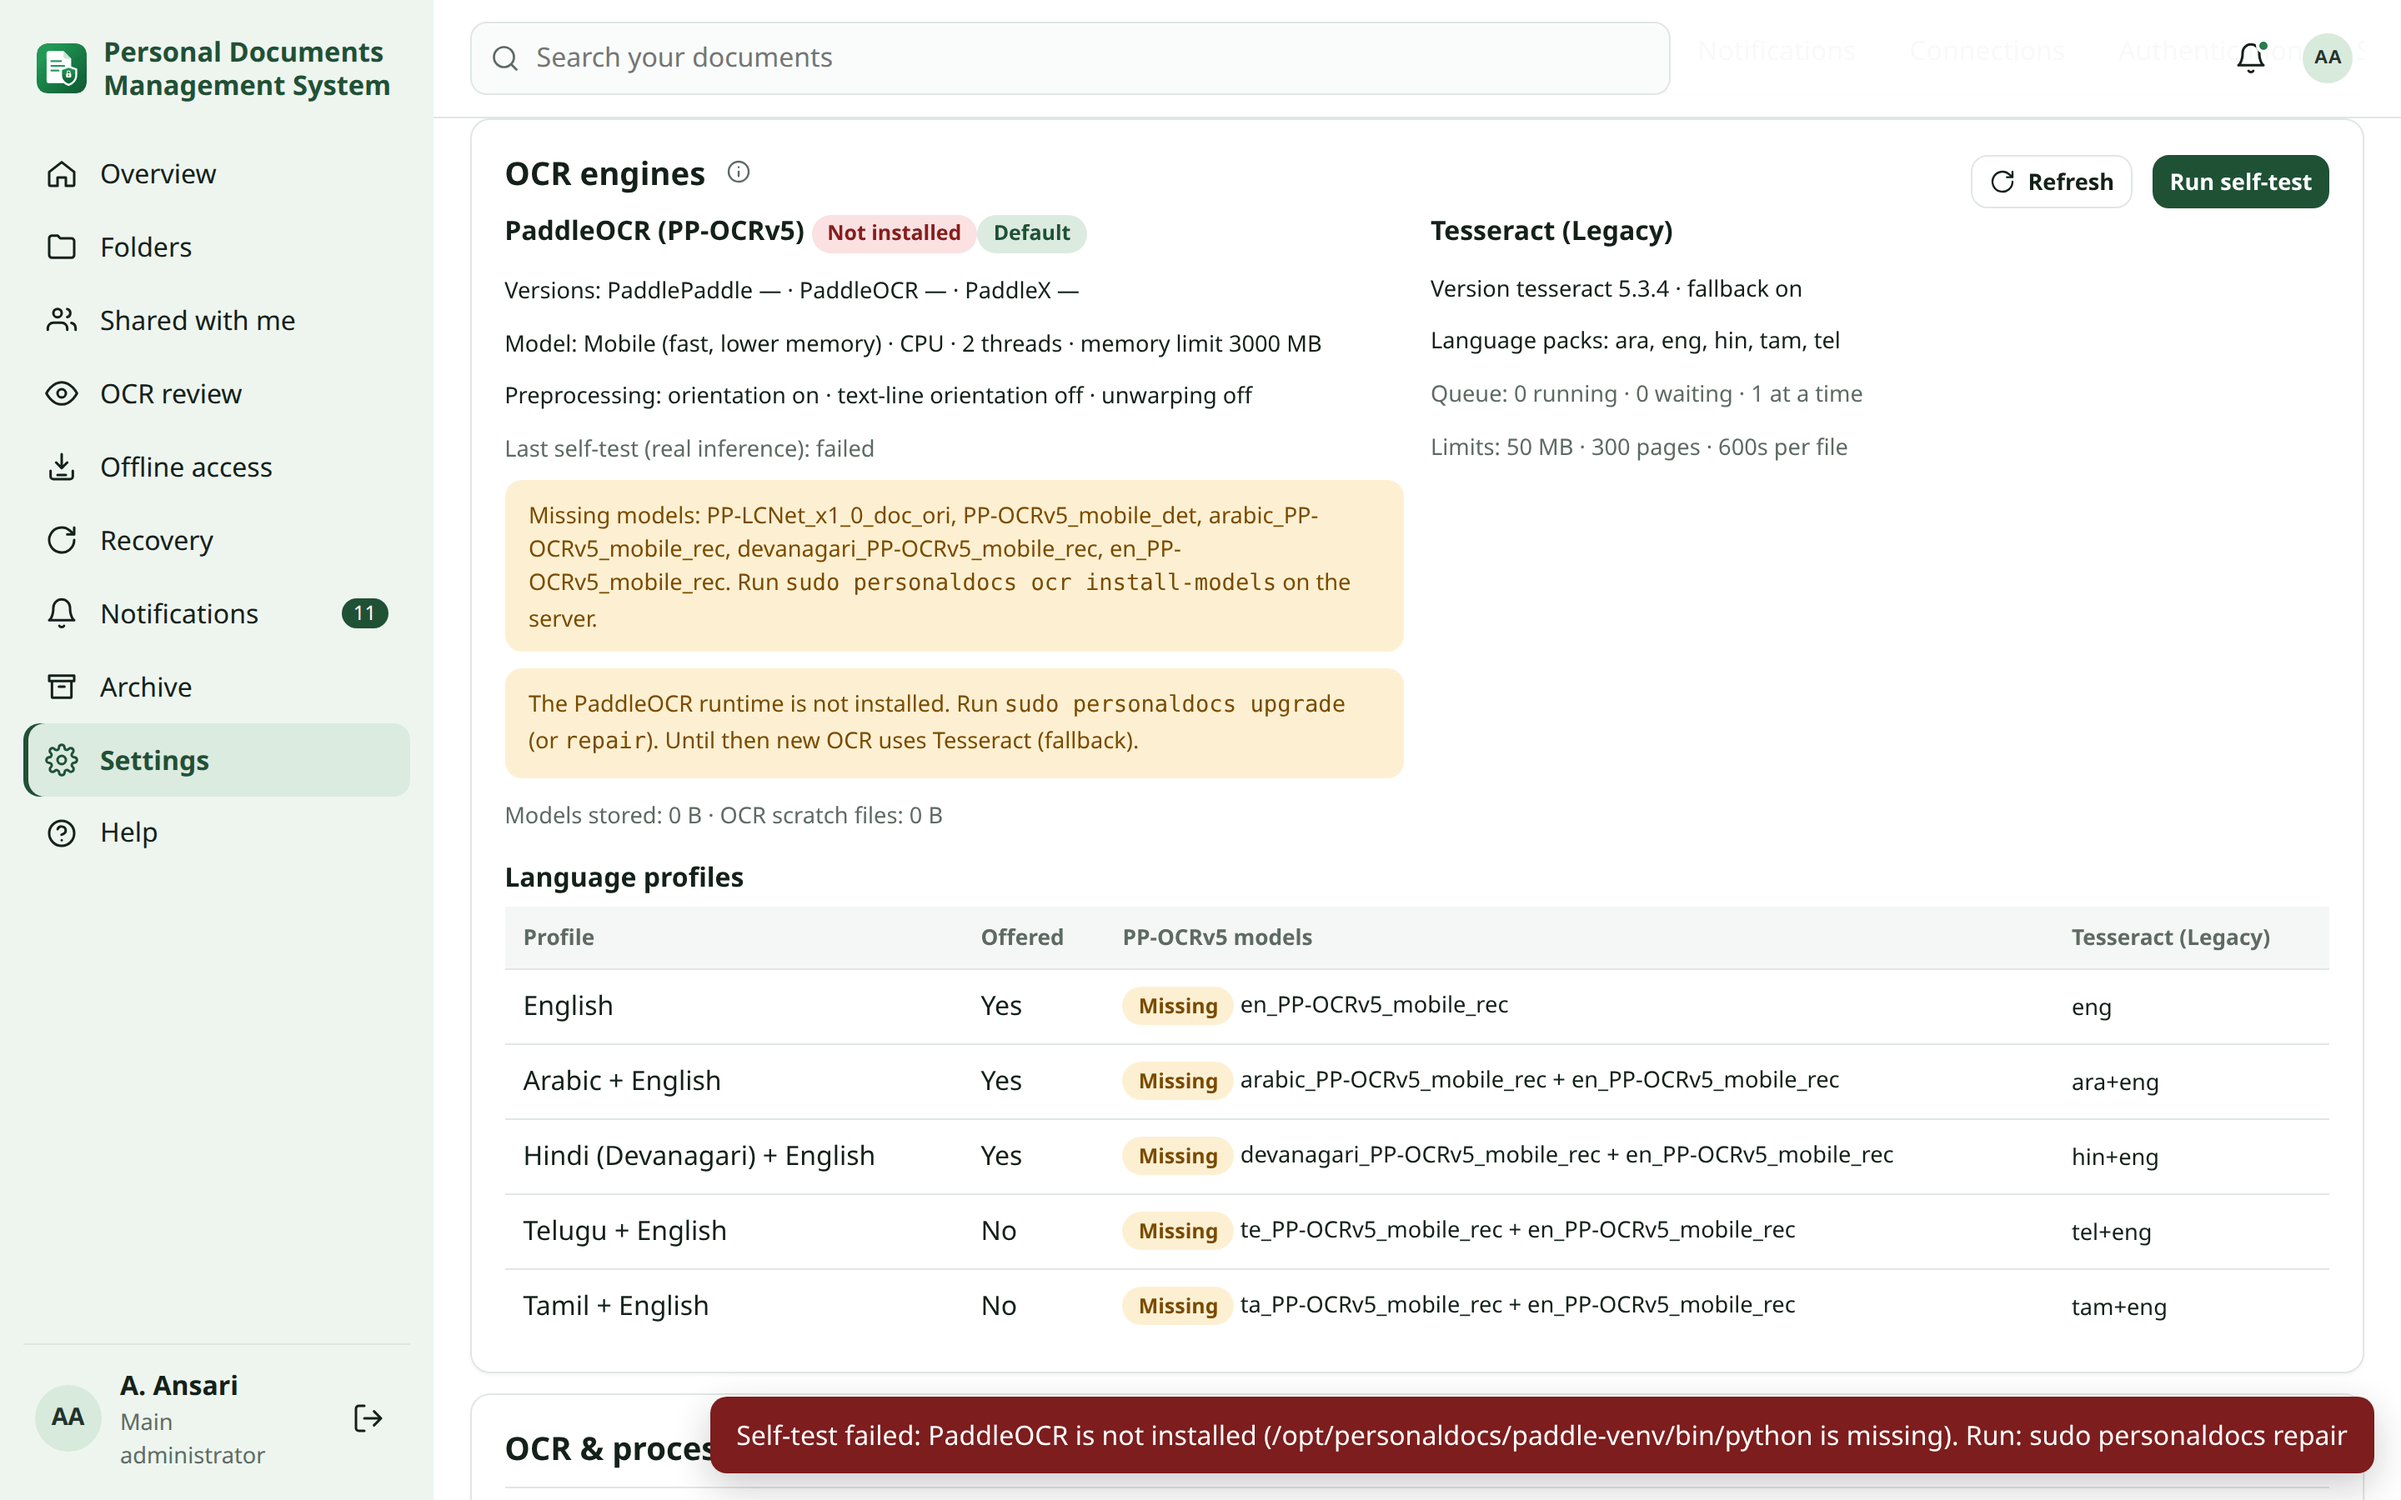
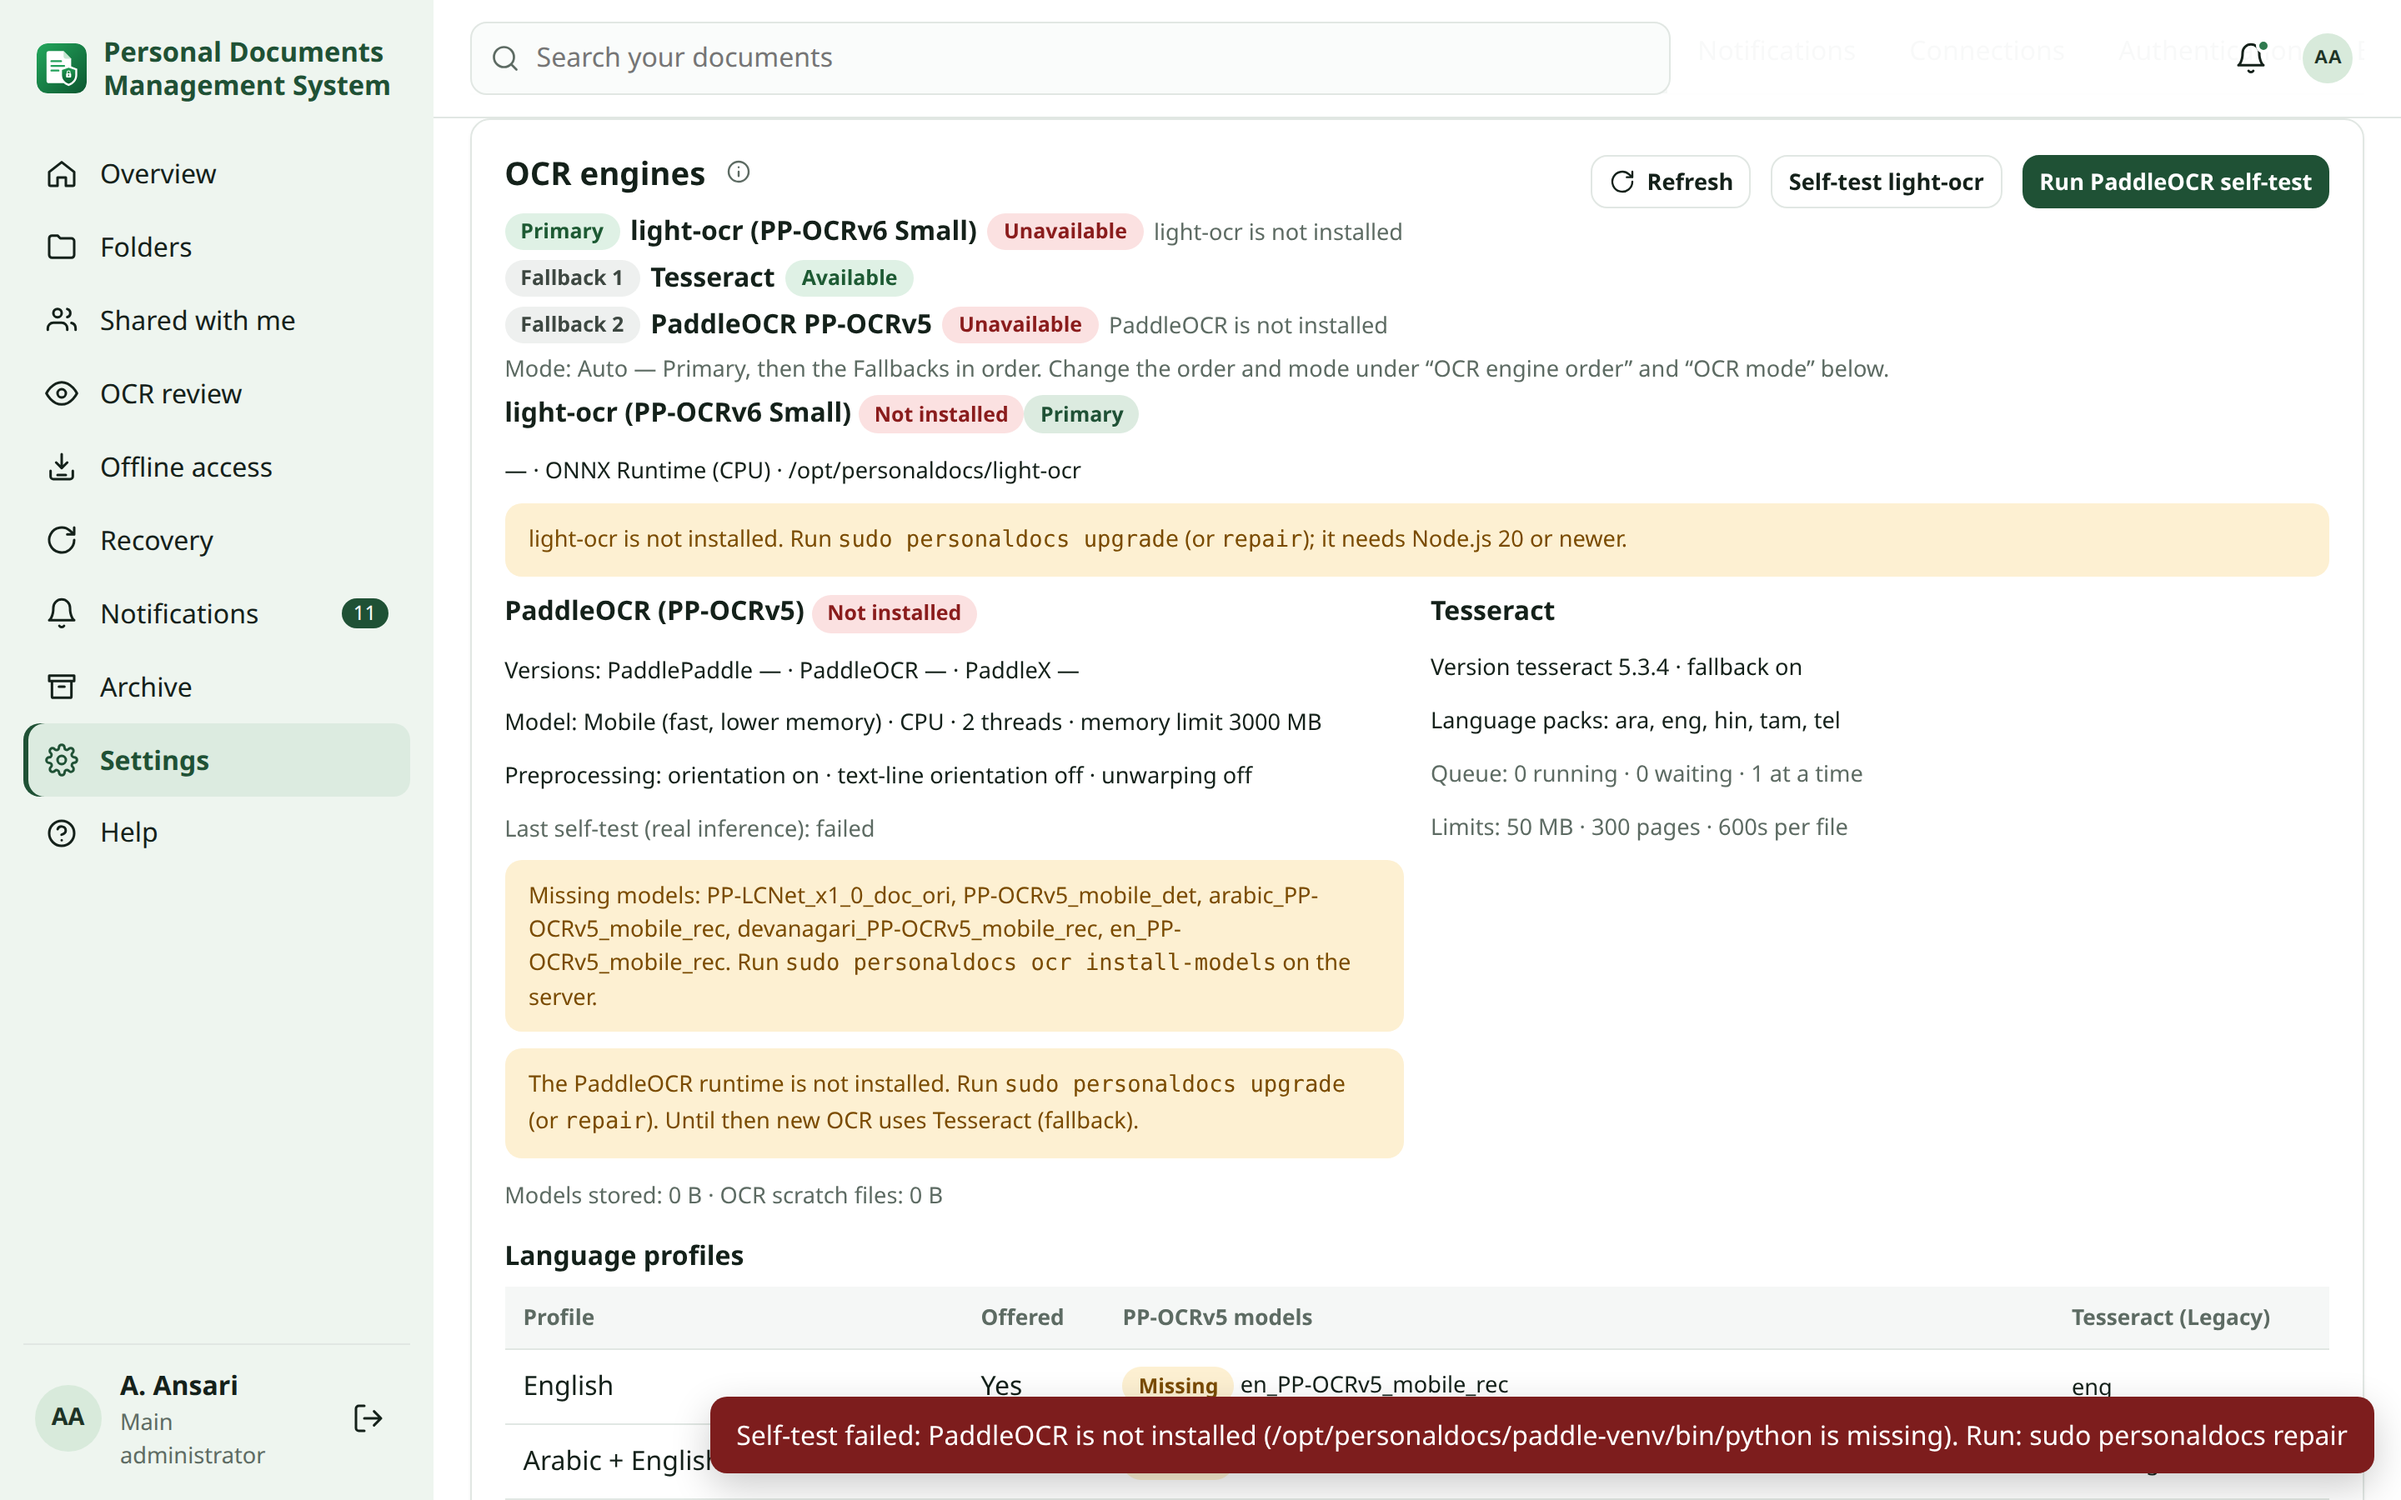
Change Set Z: test report, release gate, updated screenshots
Claude-Session: https://claude.ai/code/session_011CZvc914Uyk94HdsjjxJpJ

diff --git a/frontend/src/pages/settings/OcrEngines.tsx b/frontend/src/pages/settings/OcrEngines.tsx
@@ -82,7 +82,7 @@ export function OcrEngineStatus() {
       </div>
       <h3 style={{ marginTop: "1rem" }}>Language profiles</h3>
       <div style={{ overflowX: "auto" }}>
-        <table className="responsive"><thead><tr><th>Profile</th><th>Offered</th><th>PP-OCRv5 models</th><th>Tesseract (Legacy)</th></tr></thead><tbody>
+        <table className="responsive"><thead><tr><th>Profile</th><th>Offered</th><th>PP-OCRv5 models</th><th>Tesseract</th></tr></thead><tbody>
           {d.profiles.map((pr) => (
             <tr key={pr.key}><td>{pr.label}</td><td>{pr.offered ? "Yes" : "No"}</td>
               <td className="small">{pr.paddle_installed ? <span className="badge ok">Installed</span> : <span className="badge soon">Missing</span>} {pr.paddle_models.join(" + ")}</td>

diff --git a/tests/test_ai_intelligence.py b/tests/test_ai_intelligence.py
@@ -709,7 +709,8 @@ def test_at460_release_gate_records_every_test_honestly():
     root = Path(__file__).resolve().parents[1] / "docs"
     report = (root / "TEST_REPORT.md").read_text()
     trace = (root / "TRACEABILITY.md").read_text()
-    section = report[report.index("## Change Set Z"):]
+    start = report.index("## Change set Z")
+    section = report[start:report.index("\n## ", start + 5)]
     for n in range(441, 461):
         assert f"AT-{n}" in section and f"AT-{n}" in trace, n
     for line in section.splitlines():

diff --git a/docs/TEST_REPORT.md b/docs/TEST_REPORT.md
@@ -56,6 +56,39 @@ The end-to-end flow covers: the setup wizard creating the Main Administrator (de
 
 Screenshots of the real application with synthetic data are in `docs/screenshots/`.
 
+## Change set Z: AI Document Intelligence and the OCR engine order {#change-set-z}
+
+**Numbering.** Prompt AT-416…AT-435 → **AT-441…AT-460**. Per-scenario status: [TRACEABILITY.md](TRACEABILITY.md#change-set-z).
+Design and decisions: [IMPLEMENTATION_STATUS.md](IMPLEMENTATION_STATUS.md#change-set-z).
+
+**Environment.** Development container (Ubuntu 24.04, PostgreSQL 16, Python 3.13, Tesseract 5, Node 22, Chromium via
+Playwright), 2026-10-17. Cloud providers (OpenAI, Anthropic, Gemini, OpenRouter) and the local AI server are emulated by
+`tests/fake_ai_server.py` with their request/response shapes; light-ocr ran for real (`@arcships/light-ocr` 0.5.9).
+
+| Command | Result |
+|---|---|
+| `pytest tests/test_ai_intelligence.py` | **24 passed** (AT-441…AT-459, OCR engine order, light-ocr adapter, cloud providers, profile choice) and AT-460 passed after this report was written; with `PD_TEST_LIGHT_OCR_HOME` set, **the live light-ocr test passed**: real self-test and a real upload recognised by light-ocr (`VALID UNTIL 2031-05-20` read back) |
+| Full `pytest` | **603 tests: 596 passed, 6 skipped (ClamAV daemon, real PaddleOCR runtime, live light-ocr), 1 failed: the documentation checker, only because this section did not exist yet; it passes with this report** |
+| `scripts/e2e.sh` (fresh database) | flow, accessibility, parity, layout, offline, PWA, themes, recovery and corrective suites: **162 PASS** incl. the new step *AT-441…AT-460 Change Set Z* (engine order card and order setting kept, AI on Demand default, Cloud profile badge / send summary / Last test / key never shown, family member blocked from profiles); **1 FAIL in this container only**: AT-333 (Chromium here cannot load the real OpenFreeMap tiles through the container proxy certificate — unchanged by this change set, same as Change Set Y) |
+| Migrations `core.0008` + `ai.0003` forwards, backwards (`ai 0002`, `core 0007`), forwards; `makemigrations --check` | OK; an existing database became *PaddleOCR → Tesseract (Auto)* and *AI on Demand* |
+| `manage.py doctor` | AI mode, OCR engine order, light-ocr installed and **real self-test passed (1.6 s)** |
+| `npm run build`, `vitest` (17), `shellcheck -S error scripts/personaldocs`, `scripts/check_docs.py`, settings reference | Passed |
+
+**Per test:** AT-441 Passed · AT-442 Passed · AT-443 Passed · AT-444 Passed · AT-445 Passed · AT-446 Passed
+(emulated cloud) · AT-447 Passed · AT-448 Passed · AT-449 Passed · AT-450 Passed · AT-451 Passed · AT-452 Passed ·
+AT-453 Passed · AT-454 Passed (emulated providers) · AT-455 Passed · AT-456 Passed · AT-457 Passed · AT-458 Passed
+for throttling/concurrency rules (real concurrent load: see below) · AT-459 Passed · AT-460 automated part Passed
+(full `pytest`, `scripts/e2e.sh` with the one container-only AT-333 failure); production upgrade: see below.
+
+**Blocked / Not Executed** (never reported as passed):
+
+- Real **OpenAI, Anthropic, Gemini and OpenRouter** accounts (emulated with the same API shapes; AT-446…AT-448, AT-454).
+- A real **LM Studio / Ollama** model with the new AI Actions (emulated).
+- **Real PaddleOCR** with the engine order (fake worker; live PaddleOCR tests skipped as before).
+- **AT-458** under real concurrent OCR, ClamAV and backup load on the target 2-CPU LXC (throttling and concurrency
+  rules are unit-tested; the load itself was not run).
+- `personaldocs install/upgrade` installing light-ocr with `npm ci` on Debian 13 and a production smoke test (AT-460).
+
 ## Change set Y: OCR → AI document analysis pipeline {#change-set-y}
 
 **Numbering.** Prompt AT-401…AT-415 → **AT-426…AT-440**. Per-scenario status: [TRACEABILITY.md](TRACEABILITY.md#change-set-y).
